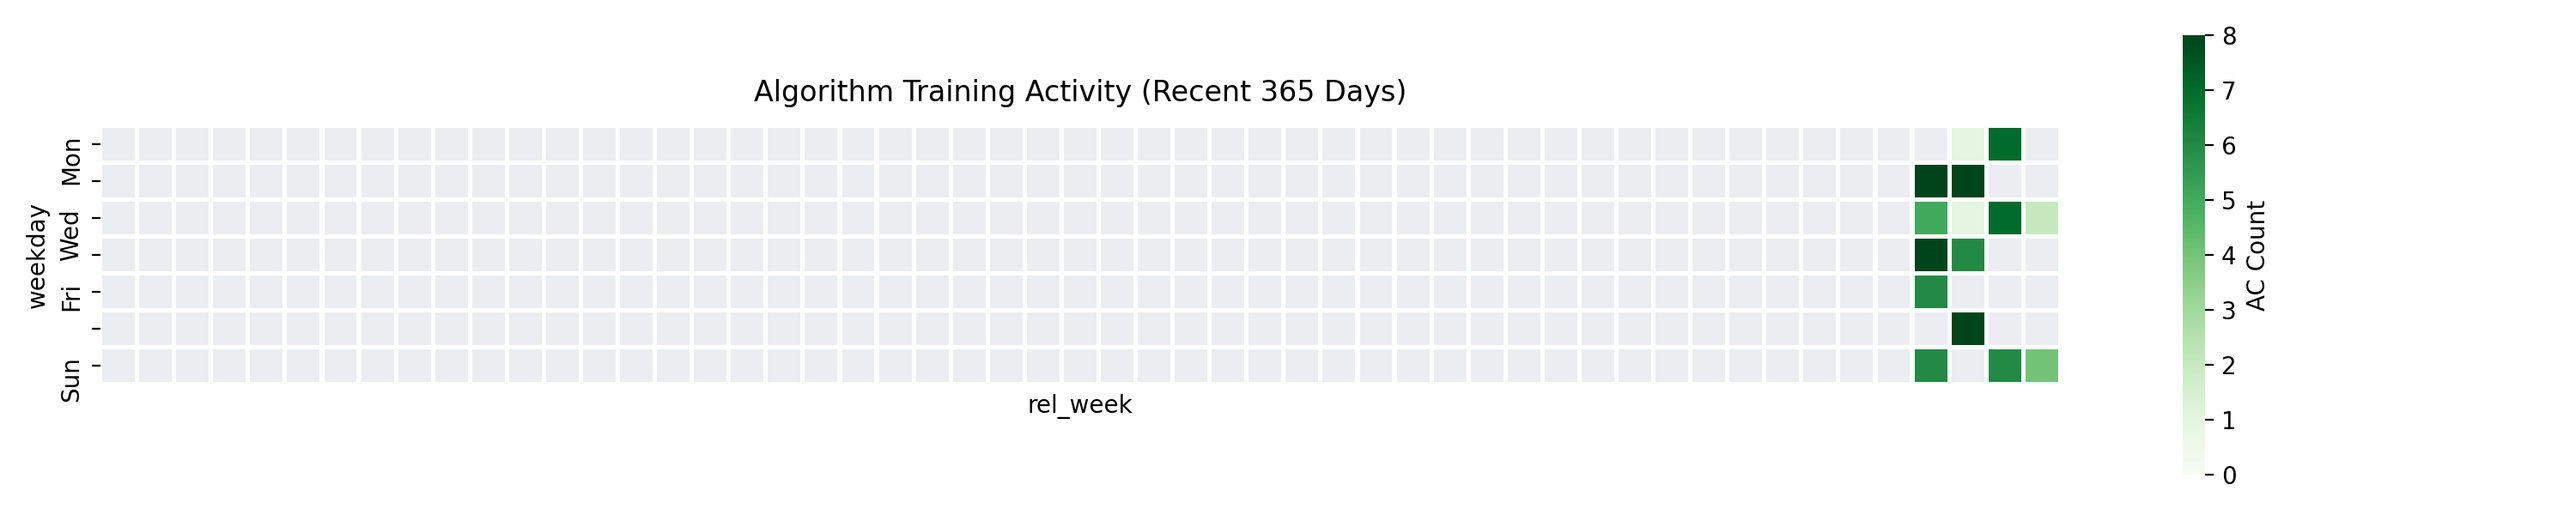
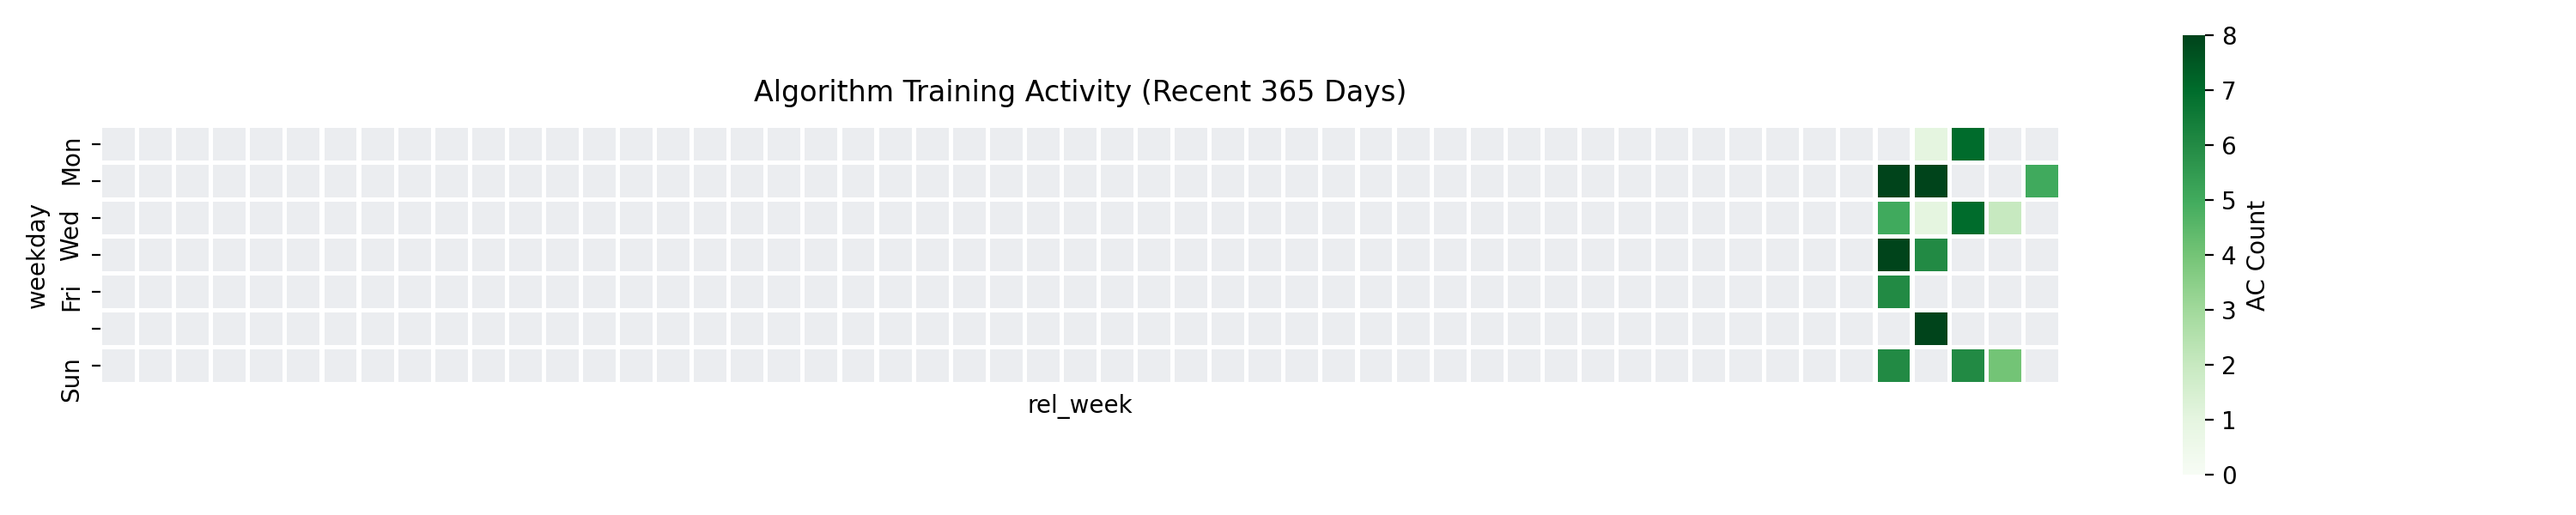
Auto sync: 周二 2026/02/24  0:44:11.13

Changed region(s): [[0.713, 0.24, 0.806, 0.75]]

diff --git a/Accepted/Codeforces/2026-02-24/2202B.cpp b/Accepted/Codeforces/2026-02-24/2202B.cpp
@@ -1,0 +1,54 @@
+#include <bits/stdc++.h>
+using namespace std;
+#define int long long
+#define endl '\n'
+#define LNF 1e18
+#define INF 0x3f3f3f3f
+#define PII pair<int, int>
+
+void solve(){
+    int n;cin >> n;
+    string s;cin >> s;
+    s = '#' + s;
+    int cntA = 0, cntB = 0;
+    // for (int i = 1; i <= n; i++) {
+    //     if (s[i] == 'a') cntA++;
+    //     else if (s[i] == 'b') cntB++;
+    // }
+    // if (cntA>(n+1)/2 || cntB>n/2) {
+    //     cout << "NO" << endl;
+    //     return;
+    // }
+
+    if (n & 1) {
+        if (s[1] == 'b') {
+            cout << "NO" << endl;
+            return;
+        }
+        for (int i = 2; i <= n; i++) {
+            if (i & 1) {
+                if (s[i] != '?' && s[i] == s[i - 1]) {
+                    cout << "NO" << endl;
+                    return;
+                }
+            }
+        }
+    } else {
+        for (int i = 1; i <= n; i++) {
+            if ((i & 1) == 0) {
+                if (s[i] != '?' && s[i] == s[i - 1]) {
+                    cout << "NO" << endl;
+                    return;
+                }
+            }
+        }
+    }
+    cout << "YES" << endl;
+}
+
+signed main() {
+    ios::sync_with_stdio(false);
+    cin.tie(nullptr);cout.tie(nullptr);
+    int T = 1;cin >> T;
+    while (T--) solve();
+}

diff --git a/Accepted/Codeforces/2026-02-24/2202C2.cpp b/Accepted/Codeforces/2026-02-24/2202C2.cpp
@@ -1,0 +1,44 @@
+#include <bits/stdc++.h>
+using namespace std;
+#define int long long
+#define endl '\n'
+#define LNF 1e18
+#define INF 0x3f3f3f3f
+#define PII pair<int, int>
+
+void solve(){
+    int n;cin >> n;
+    vector<int> arr(n + 1);
+    for (int i = 1; i <= n; i++) cin >> arr[i];
+    vector<int> dp(n + 2);
+    vector<int> next(n + 1);
+    int pos = n + 1;
+    for (int i = n; i >= 1; i--) {
+        next[i] = pos;
+        if (arr[i] > arr[i - 1] + 1) {
+            pos = i;
+        }
+    }
+    stack<int> st;
+    for (int i = n; i >= 1; i--) {
+        while (!st.empty() && arr[st.top()] > arr[i]) st.pop();
+        if (st.size()) {
+            next[i] = min(next[i], st.top());
+        }
+        st.push(i);
+    }
+
+    for (int i = n; i >= 1; i--) {
+        dp[i] = (n - i + 1) + dp[next[i]];
+    }
+    int ans = 0;
+    for (int i = 1; i <= n; i++) ans += dp[i];
+    cout << ans << endl;
+}
+
+signed main() {
+    ios::sync_with_stdio(false);
+    cin.tie(nullptr);cout.tie(nullptr);
+    int T = 1;cin >> T;
+    while (T--) solve();
+}

diff --git a/Accepted/Codeforces/2026-02-24/2202D.cpp b/Accepted/Codeforces/2026-02-24/2202D.cpp
@@ -1,0 +1,40 @@
+#include <bits/stdc++.h>
+using namespace std;
+#define int long long
+#define endl '\n'
+#define LNF 1e18
+#define INF 0x3f3f3f3f
+#define PII pair<int, int>
+
+void solve(){
+    int n, k;cin >> n >> k;
+    if (k < n || k >= 2*n) {
+        cout << "NO" << endl;
+        return;
+    }
+    if (n == k) {
+        cout << "YES" << endl;
+        for (int i = 1; i <= n; i++) {
+            cout << i << ' ' << i << " \n"[i == n];
+        }
+        return;
+    }
+    int cnt = k - n;
+    cout << "YES" << endl;
+    cout << "1 2 ";
+    for (int i = 3; i <= cnt+1; i++) {
+        cout << i << ' ' << i - 1 << ' ';
+    }
+    cout << cnt + 1 << ' ' << 1 << ' ';
+    for (int i = cnt+2; i <= n; i++) {
+        cout << i << ' ' << i << ' ';
+    }
+    cout << endl;
+}
+
+signed main() {
+    ios::sync_with_stdio(false);
+    cin.tie(nullptr);cout.tie(nullptr);
+    int T = 1;cin >> T;
+    while (T--) solve();
+}

diff --git a/Accepted/Codeforces/2026-02-24/2202C1.cpp b/Accepted/Codeforces/2026-02-24/2202C1.cpp
@@ -1,0 +1,36 @@
+#include <bits/stdc++.h>
+using namespace std;
+#define int long long
+#define endl '\n'
+#define LNF 1e18
+#define INF 0x3f3f3f3f
+#define PII pair<int, int>
+
+void solve(){
+    int n;cin >> n;
+    vector<int> arr(n + 1);
+    for (int i = 1; i <= n; i++) cin >> arr[i];
+    vector<int> dp(n + 1);
+    int l = -LNF, r = -LNF;
+    for (int i = 1; i <= n; i++) {
+        int num = arr[i];
+        int aid = num - 1;
+        if (aid>=l && aid<=r) {
+            dp[i] = dp[i - 1];
+            r = num;
+        } else {
+            dp[i] = dp[i - 1] + 1;
+            l = num;
+            r = num;
+        }
+    }
+
+    cout << dp[n] << endl;
+}
+
+signed main() {
+    ios::sync_with_stdio(false);
+    cin.tie(nullptr);cout.tie(nullptr);
+    int T = 1;cin >> T;
+    while (T--) solve();
+}

diff --git a/Accepted/Codeforces/2026-02-24/2202A.cpp b/Accepted/Codeforces/2026-02-24/2202A.cpp
@@ -1,0 +1,21 @@
+#include <bits/stdc++.h>
+using namespace std;
+#define int long long
+#define endl '\n'
+#define LNF 1e18
+#define INF 0x3f3f3f3f
+#define PII pair<int, int>
+
+void solve(){
+    int x, y;cin >> x >> y;
+    
+    if ((x >= 2*y) && (x - 2*y) % 3 == 0 && x >= -4 * y) cout << "YES" << endl;
+    else cout << "NO" << endl;
+}
+
+signed main() {
+    ios::sync_with_stdio(false);
+    cin.tie(nullptr);cout.tie(nullptr);
+    int T = 1;cin >> T;
+    while (T--) solve();
+}

diff --git a/README.md b/README.md
@@ -1,5 +1,5 @@
 # 🏆 Algorithm Training Log
-> 🎯 **Goal:** ACM Silver Medal | *Last updated: 2026-02-22 21:09:20*
+> 🎯 **Goal:** ACM Silver Medal | *Last updated: 2026-02-24 00:44:03*
 
 ## 📈 Heatmap
 ![Algorithm Training Heatmap](ac_heatmap.png)
@@ -15,7 +15,7 @@
             <table width="100%">
                 <thead><tr><th align="center">平台</th><th align="left">题目</th><th align="right">日期</th></tr></thead>
                 <tbody>
-                <tr><td align='center'><code>Codeforces</code></td><td><a href='https://codeforces.com/contest/2192/problem/D'>2192D</a></td><td align='right'>02-22</td></tr><tr><td align='center'><code>Codeforces</code></td><td><a href='https://codeforces.com/contest/2192/problem/C'>2192C</a></td><td align='right'>02-22</td></tr><tr><td align='center'><code>Codeforces</code></td><td><a href='https://codeforces.com/contest/2192/problem/B'>2192B</a></td><td align='right'>02-22</td></tr><tr><td align='center'><code>Codeforces</code></td><td><a href='https://codeforces.com/contest/2192/problem/A'>2192A</a></td><td align='right'>02-22</td></tr><tr><td align='center'><code>Nowcoder</code></td><td><a href='https://ac.nowcoder.com/acm/contest/128682/F'>差异</a></td><td align='right'>02-18</td></tr>
+                <tr><td align='center'><code>Codeforces</code></td><td><a href='https://codeforces.com/contest/2202/problem/D'>2202D</a></td><td align='right'>02-24</td></tr><tr><td align='center'><code>Codeforces</code></td><td><a href='https://codeforces.com/contest/2202/problem/C2'>2202C2</a></td><td align='right'>02-24</td></tr><tr><td align='center'><code>Codeforces</code></td><td><a href='https://codeforces.com/contest/2202/problem/C1'>2202C1</a></td><td align='right'>02-24</td></tr><tr><td align='center'><code>Codeforces</code></td><td><a href='https://codeforces.com/contest/2202/problem/B'>2202B</a></td><td align='right'>02-24</td></tr><tr><td align='center'><code>Codeforces</code></td><td><a href='https://codeforces.com/contest/2202/problem/A'>2202A</a></td><td align='right'>02-24</td></tr>
                 </tbody>
             </table>
         </td>
@@ -37,6 +37,7 @@
 
 | 日期 | Codeforces | Luogu | Nowcoder | Others | Vjudge | **Total** |
 | :--- | :---: | :---: | :---: | :---: | :---: | :---: |
+| [2026-02-24](./DailyLogs/2026-02-24.md) | 5 | - | - | - | - | **5** |
 | [2026-02-22](./DailyLogs/2026-02-22.md) | 4 | - | - | - | - | **4** |
 | [2026-02-18](./DailyLogs/2026-02-18.md) | - | - | 2 | - | - | **2** |
 | [2026-02-15](./DailyLogs/2026-02-15.md) | - | - | 6 | - | - | **6** |

diff --git a/DailyLogs/2026-02-24.md b/DailyLogs/2026-02-24.md
@@ -1,0 +1,9 @@
+# 📝 训练总结: 2026-02-24
+
+| 平台 | 题目名称 | 源码跳转 |
+| :--- | :--- | :--- |
+| `Codeforces` | [2202A](https://codeforces.com/contest/2202/problem/A) | [查看代码](../Accepted/Codeforces/2026-02-24/2202A.cpp) |
+| `Codeforces` | [2202B](https://codeforces.com/contest/2202/problem/B) | [查看代码](../Accepted/Codeforces/2026-02-24/2202B.cpp) |
+| `Codeforces` | [2202C1](https://codeforces.com/contest/2202/problem/C1) | [查看代码](../Accepted/Codeforces/2026-02-24/2202C1.cpp) |
+| `Codeforces` | [2202C2](https://codeforces.com/contest/2202/problem/C2) | [查看代码](../Accepted/Codeforces/2026-02-24/2202C2.cpp) |
+| `Codeforces` | [2202D](https://codeforces.com/contest/2202/problem/D) | [查看代码](../Accepted/Codeforces/2026-02-24/2202D.cpp) |
